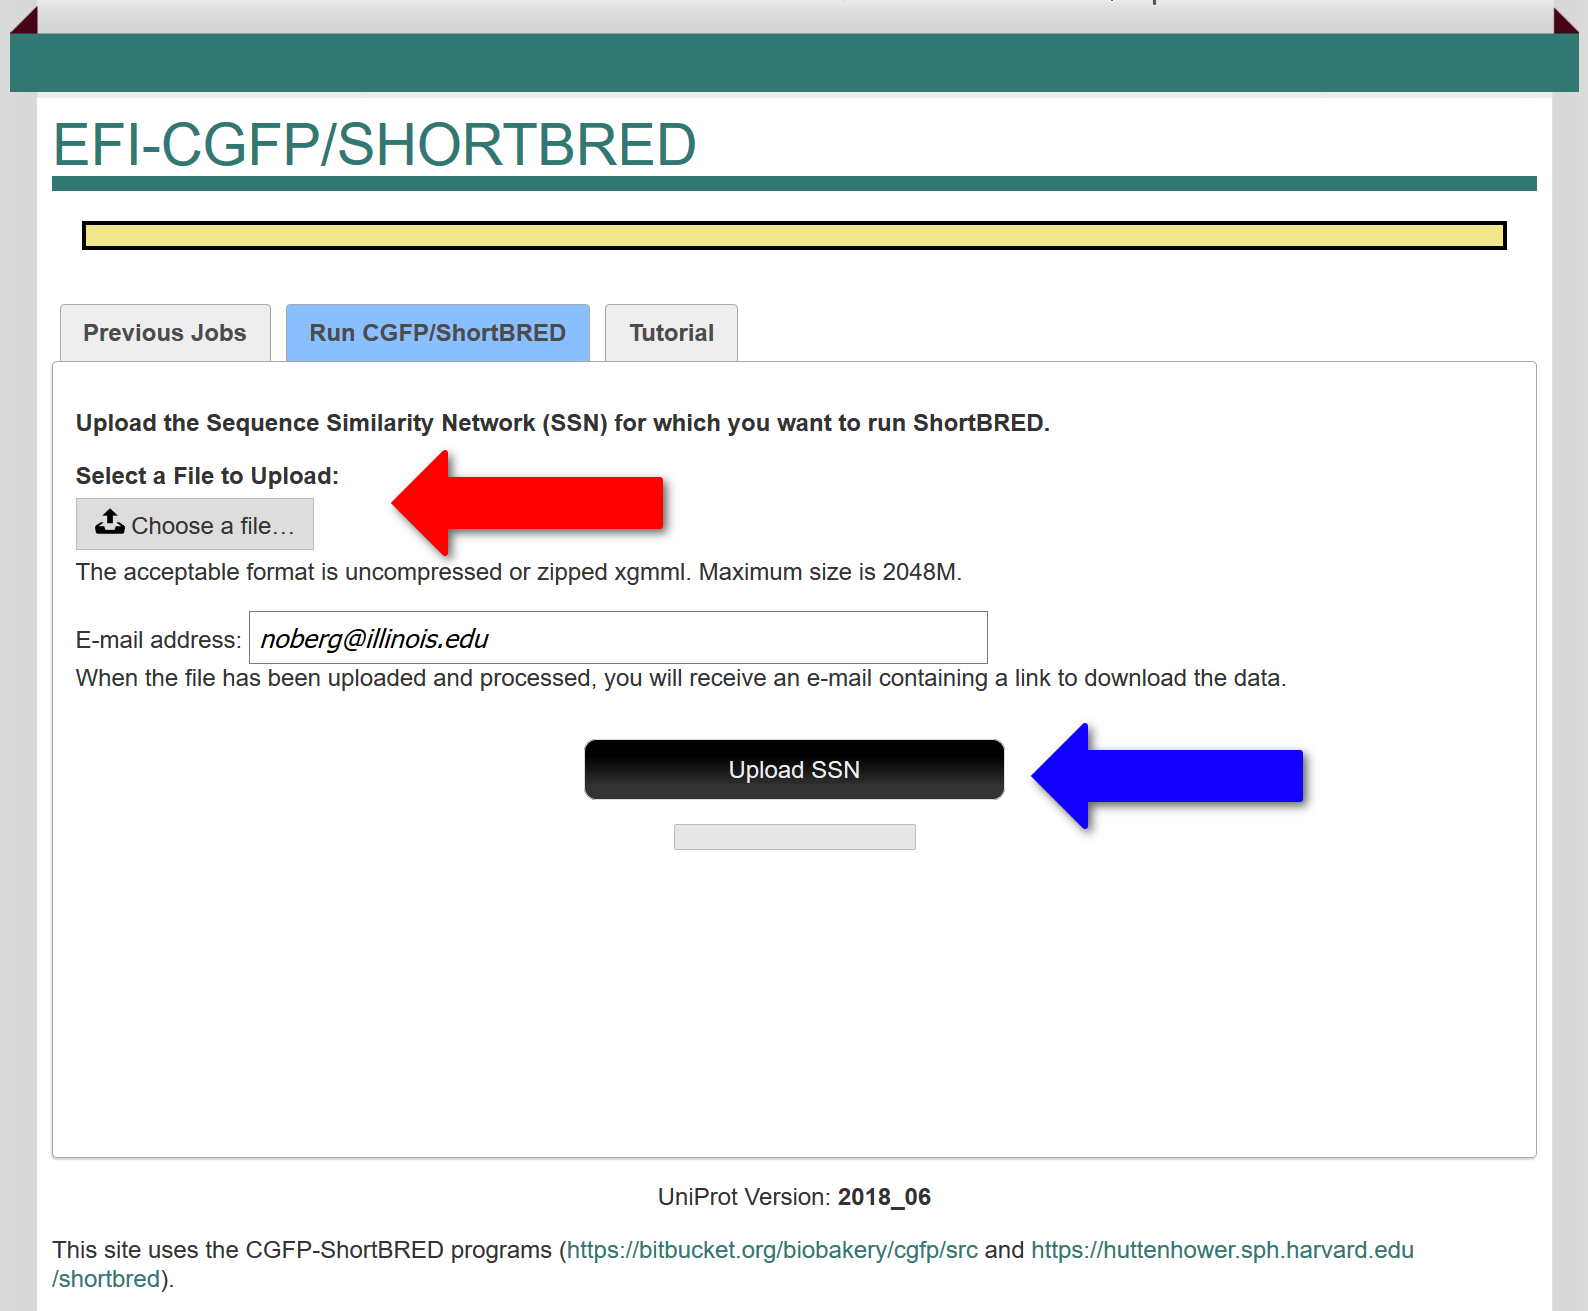
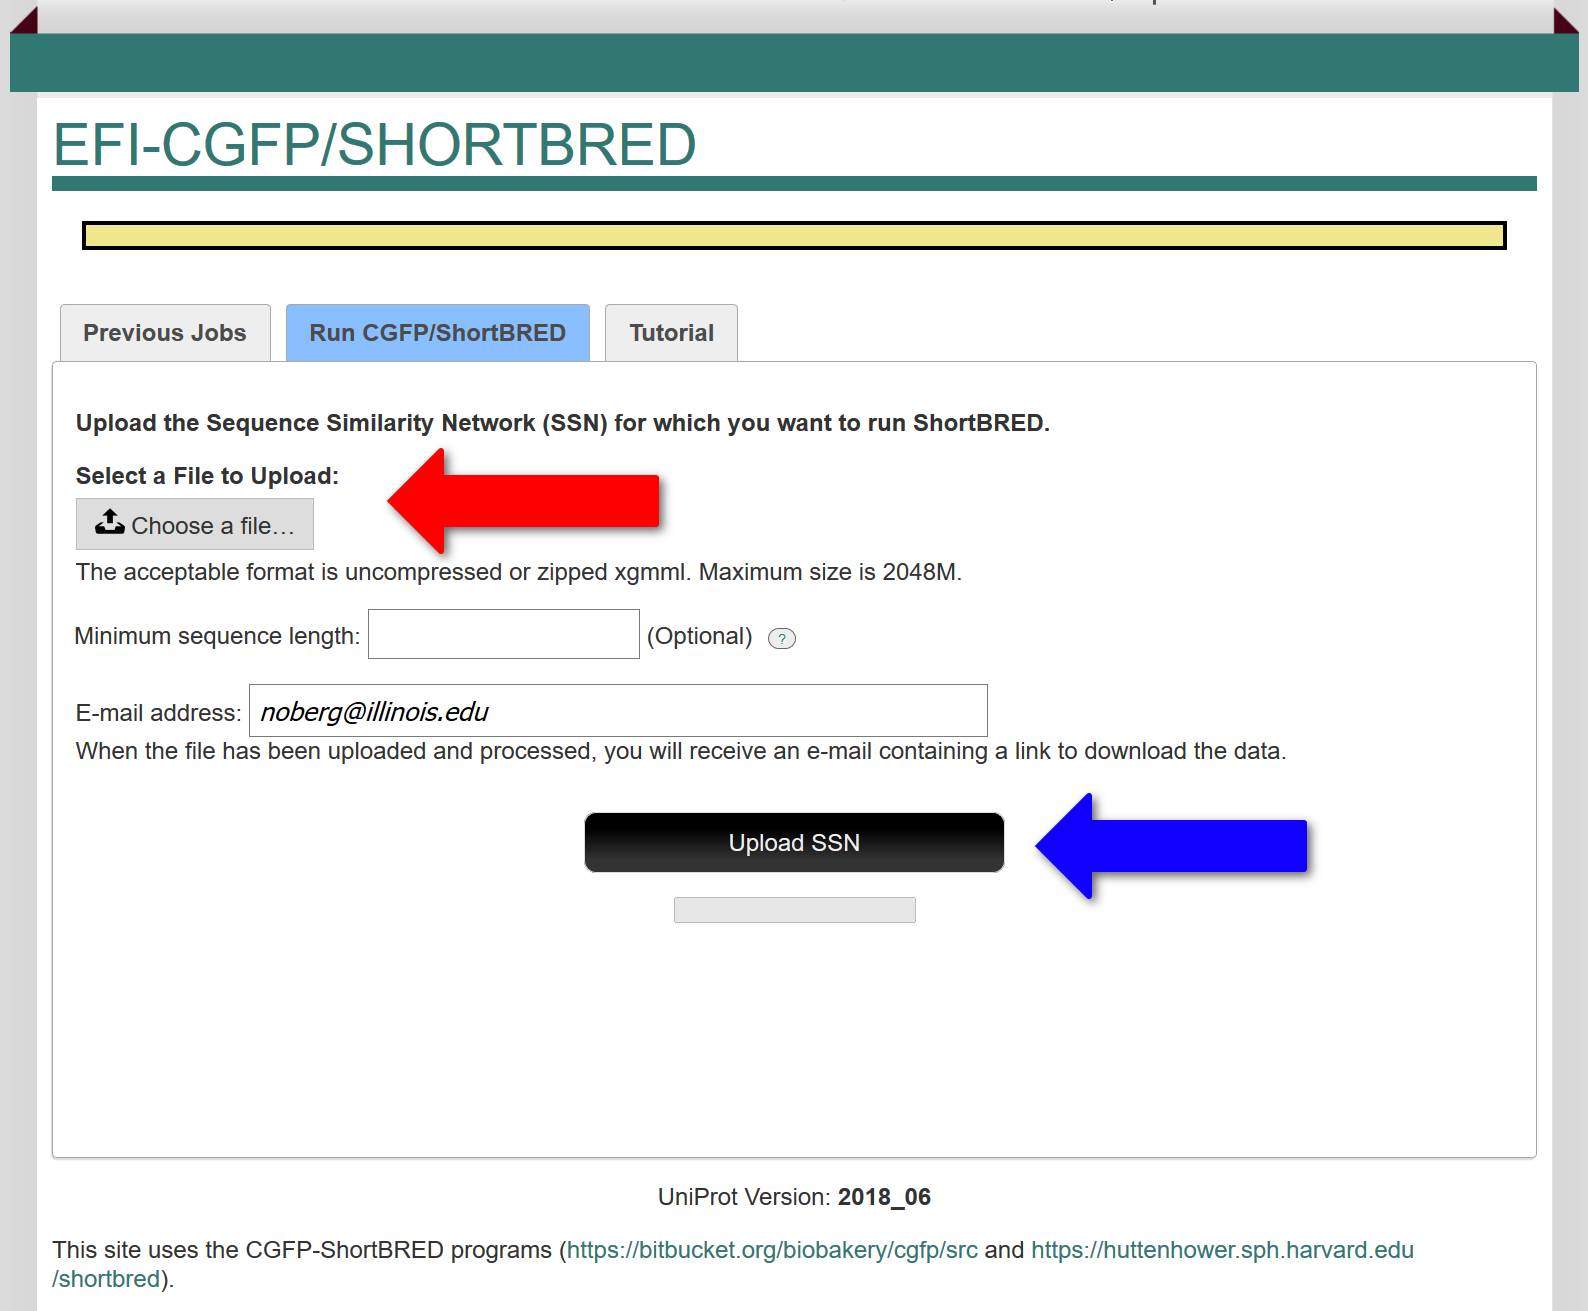
Updated ShortBRED tutorial.

diff --git a/shortbred/html/tutorial/input.inc.php b/shortbred/html/tutorial/input.inc.php
@@ -59,12 +59,17 @@ not be able to view a full SSN, but the user will be able to view a rep node
 SSN. We recommend the highest resolution rep node SSN that can be manipulated 
 with Cytoscape on the user’s computer (largest possible sequence identity) so 
 that proteins with different functions can be expected to be located in 
-separate SSN clusters.
+separate SSN clusters. EFI-CGFP "expands" the metanodes in rep node SSNs to
+include all of the sequences in the identification of markers
 </p>
 
 <p>
 We also recommend that users apply a minimum length filter to ensure that the 
-sequences are "full length" when the input SSN is generated with EFI-EST.  The 
+sequences are "full length" when the input SSN is generated with EFI-EST.  An 
+appropriate minimum length can be selected by examining the length histogram 
+provided by EFI-EST.  Rep node SSNs are generated after the minimum length 
+filter is applied; therefore, all of the sequences in rep node SSNs will be 
+"full length". The 
 marker identification step in ShortBRED involves initial clustering of proteins 
 into groups of sequences that share &ge;85% sequence identity (CD-HIT 85 
 clusters); these sequences then are aligned (multiple sequence alignment using 
@@ -77,14 +82,13 @@ SSN clusters that contain the CD-HIT 85 sequences with the markers.
 </p>
 
 <p>
-We do not recommend the use of UniRef90 sequences for generating the input SSN.   
-For UniRef90 sequences, the minimum length filter in EFI-EST is applied only to 
-the seed sequence (longest sequence) in a UniRef90 clusters provided by 
-UniProt.  UniRef90 clusters often contain fragments, so if an SSN generated 
-with UniRef90 sequences is used as the input for EFI-CGFP, the multiple 
-sequence alignments/consensus sequences may be biased by the presence of these 
-fragments.
-</p>
+EFI-EST uses UniRef90 clusters when a user-specified family contains ≥25,000 
+sequences (Options B, C, and D).  EFI-CGFP "expands" UniRef90 clusters to 
+include all of the sequences in the identification of markers; however, the 
+clusters can include fragments.  Because the minimum length filter in EFI-EST 
+is applied only to the UniRef90 seed sequence, the same minimum length filter 
+should be specified in the "minimum sequence length" window to remove 
+fragments.  </p>
 
 <p>
 EFI-CGFP identifies and uses only unique sequences (100% sequence identity over 
